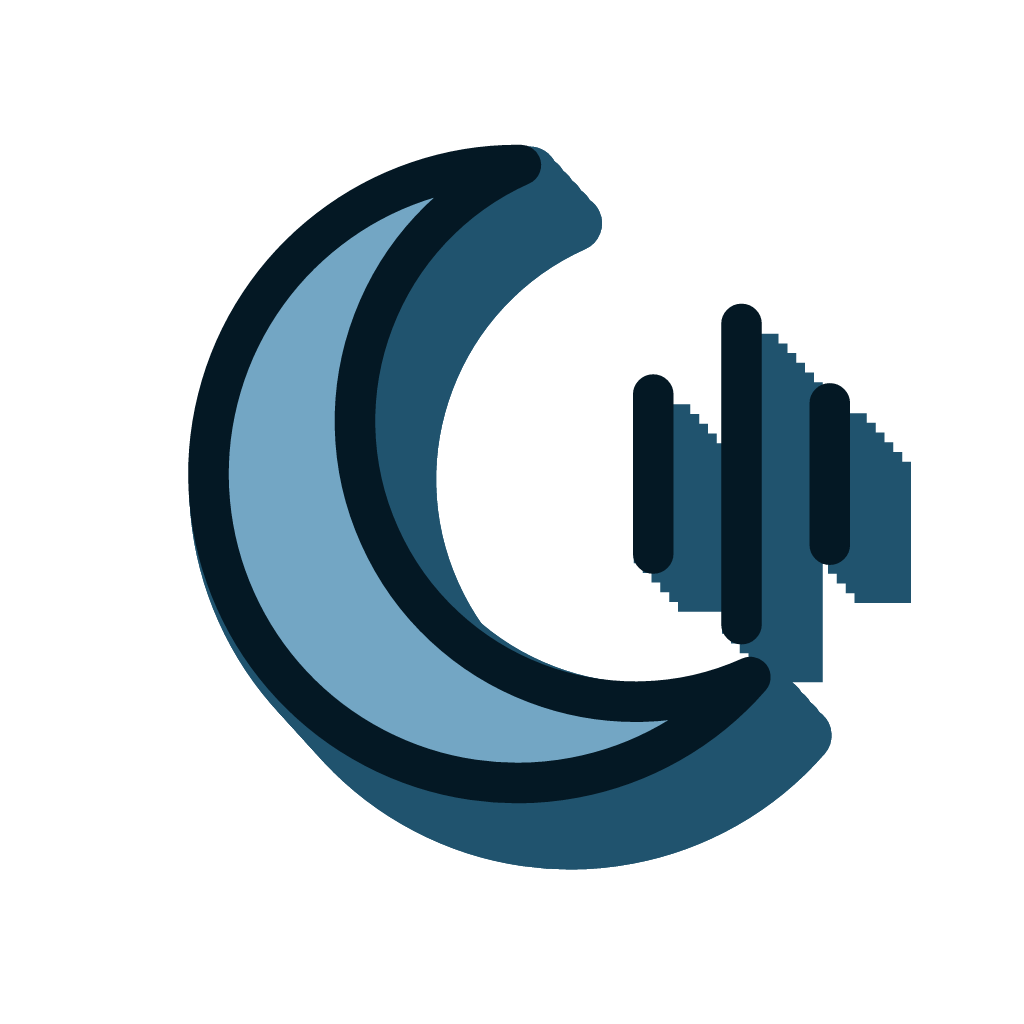
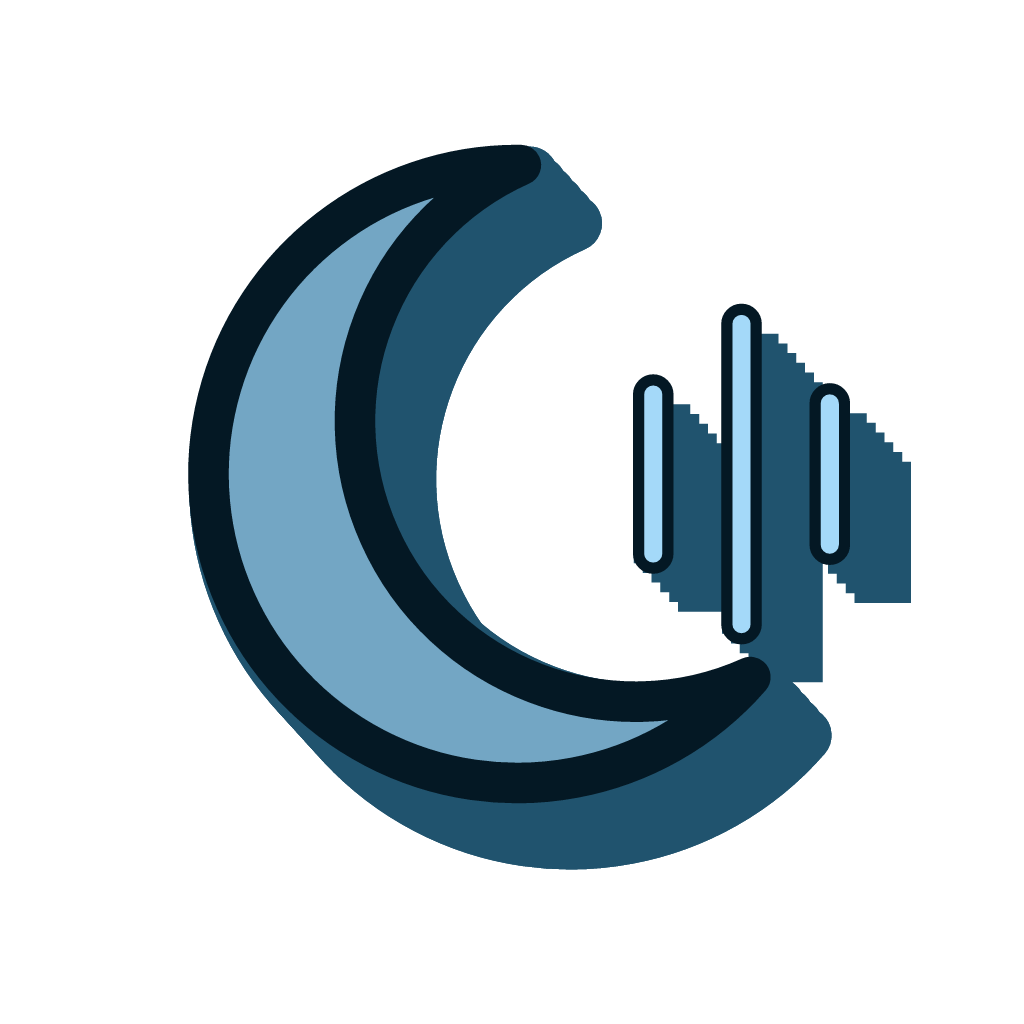
Luna's voice bars get a light core so they read on dark grounds

Changed region(s): [[0.6875, 0.3125, 0.75, 0.625], [0.7812, 0.375, 0.8438, 0.5312], [0.625, 0.375, 0.6562, 0.5625]]

diff --git a/brand/icons/instrumenta-icons.js b/brand/icons/instrumenta-icons.js
@@ -58,6 +58,7 @@
   // ---- Glyphs -------------------------------------------------------------------------------
   // A 48-unit grid. Class tokens say what each shape is, not how it looks:
   //   f / f2   fill areas (accent / light)       s      line (ink), solid  filled in ink
+  //   s2       a light core drawn inside an ink line, so a bar reads on a dark ground
   //   k0..k6   filled in another product's colour, in catalogue order after Instrumenta
   //   thin     a lighter line                    dt     detail, dropped at 16 and 24 px
   //   flat     casts no depth (floats in front)
@@ -93,7 +94,8 @@
       + '<path class="s" d="M13 41H35V36.5H31.5L29.5 22H32.5V10H27.5V14.5H25.5V10H22.5V14.5H20.5V10H15.5V22H18.5L16.5 36.5H13Z"/>'
       + '<path class="s dt" d="M18.5 22H29.5"/></g>',
     luna: '<path class="f" d="M26 6A17.5 17.5 0 1 0 39 35A14.5 14.5 0 0 1 26 6Z"/><path class="s" d="M26 6A17.5 17.5 0 1 0 39 35A14.5 14.5 0 0 1 26 6Z"/>'
-      + '<path class="s m-bar" d="M33.5 19V28"/><path class="s m-bar w2" d="M38.5 15V32"/><path class="s m-bar w4" d="M43.5 19.5V27.5"/>',
+      + '<path class="s m-bar" d="M33.5 19V28"/><path class="s m-bar w2" d="M38.5 15V32"/><path class="s m-bar w4" d="M43.5 19.5V27.5"/>'
+      + '<path class="s2 flat m-bar" d="M33.5 19V28"/><path class="s2 flat m-bar w2" d="M38.5 15V32"/><path class="s2 flat m-bar w4" d="M43.5 19.5V27.5"/>',
     forge3d: '<g class="m-forge"><path class="f2" d="M24 7L39 15.5L24 24L9 15.5Z"/><path class="s" d="M24 7L39 15.5L24 24L9 15.5Z"/></g>'
       + '<path class="f" d="M9 19V32L24 41V27.5Z"/><path class="f2" d="M39 19V32L24 41V27.5Z"/>'
       + '<path class="s" d="M9 19V32L24 41L39 32V19M24 27.5V41M9 19L24 27.5L39 19"/>',
@@ -144,6 +146,7 @@
       if (t.includes('f')) return ` fill="${col.accent}"`;
       if (t.includes('f2')) return ` fill="${col.light}"`;
       if (t.includes('solid')) return ` fill="${col.ink}"`;
+      if (t.includes('s2')) return ` fill="none" stroke="${col.light}" stroke-width="${(tier.line * 0.45).toFixed(2)}"${round}`;
       if (t.includes('s')) return ` fill="none" stroke="${col.ink}" stroke-width="${t.includes('thin') ? tier.thin : tier.line}"${round}`;
       return '';
     });
